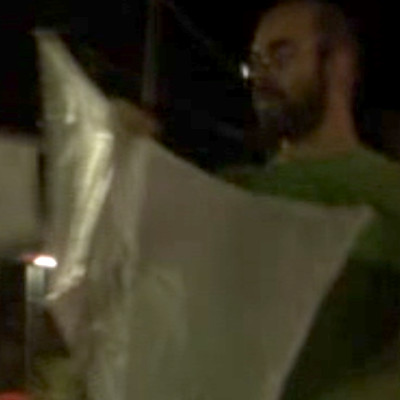
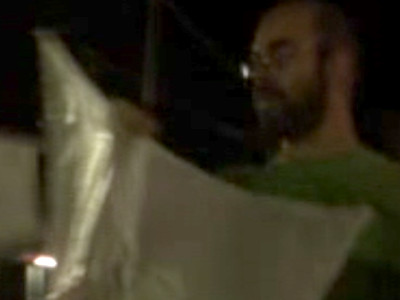
ceu da palavra right order

diff --git a/_projects/ceudapalavra_project.md b/_projects/ceudapalavra_project.md
@@ -5,7 +5,7 @@ description: interactive outdoors video performance on kites
 img: assets/img/ceudapalavra.jpg
 importance: 1
 redirect: https://vimeo.com/brunovianna/ceudapalavra
-category: [personal, videoart]
+category: [personal, 'interactive film']
 ---
 
 Every project has a beautiful feature showcase page.
